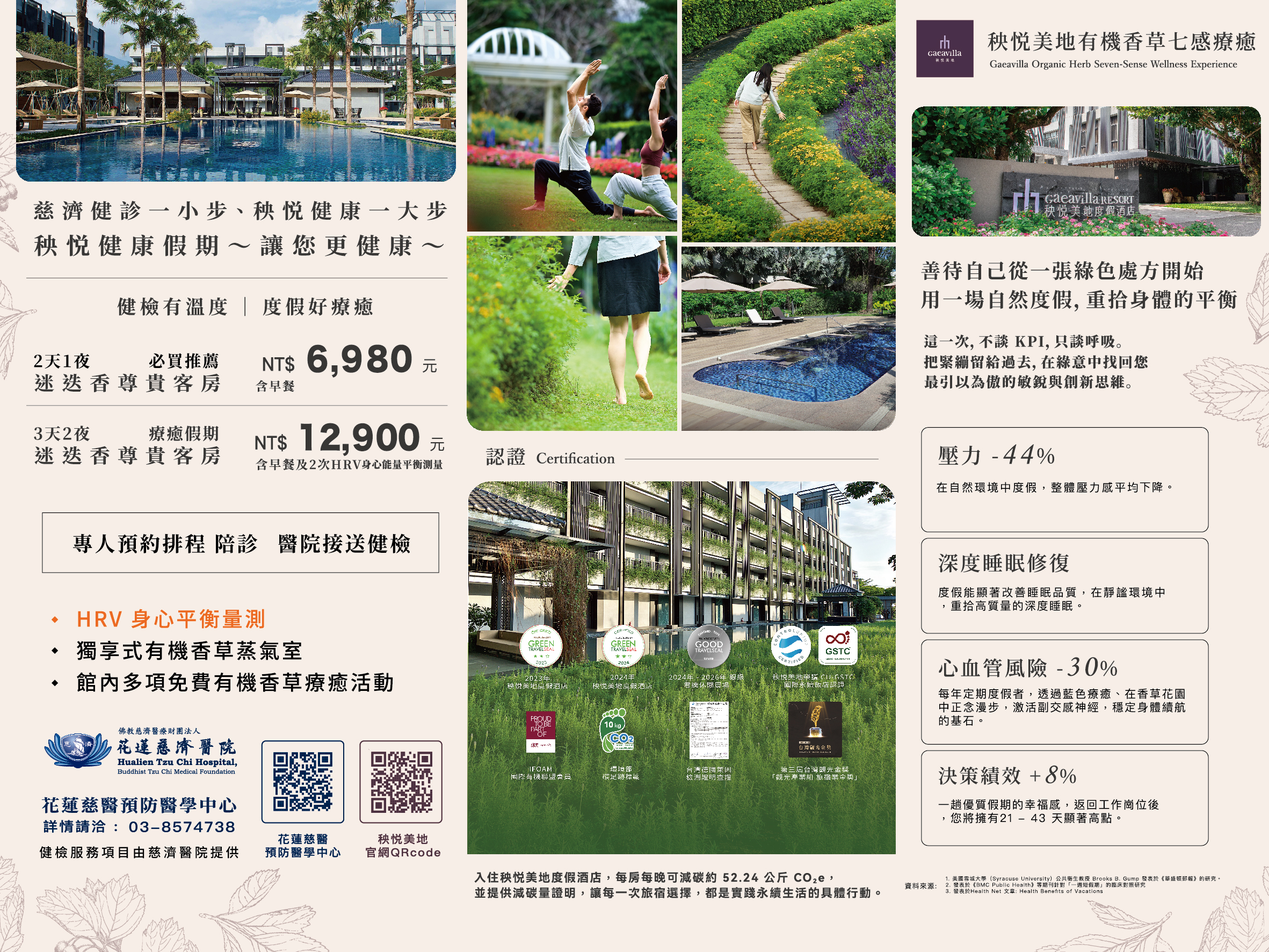
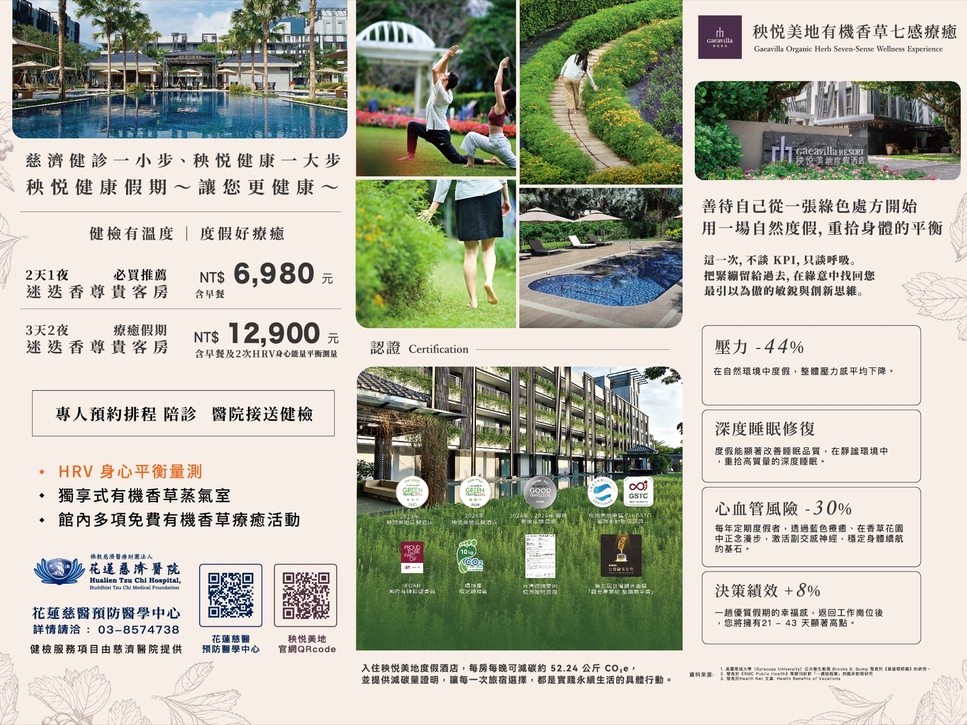
海報縮圖上線；海報依圖片比例等比例顯示
- expo-deploy/posters：21 張海報縮圖（長邊 1400／A02 寬 1800／A43 寬 2400，品質 80），原檔備份在 posters_original（不進版本控制）
- content.js 更新海報檔名清單
- 海報圖片比例與展位格子不同時，依圖片比例等比例縮小置中，不拉伸變形
- 寬海報的點選鏡頭距離再拉遠

diff --git a/expo-deploy/index.html b/expo-deploy/index.html
@@ -545,9 +545,15 @@ function posterTex(id, unit, pw) {
 function register(mesh, it) { mesh.userData.it = it; it.mesh = mesh; pick.push(mesh); items[it.id] = it; }
 // 海報圖檔：先讀 posters/ 的檔案清單，只載入真的存在的圖，避免對每個編號亂試而產生一堆 404
 const posterMesh = {};
+// 海報圖片比例和展位格子不同時（例如正方形、橫幅）：依圖片比例等比例縮小、置中，不拉伸變形
+function fitPoster(m, r) {
+  const g = m.geometry.parameters, W = g.width, H = g.height; let fw = W, fh = H;
+  if (r > W/H) fh = W/r; else fw = H*r;
+  m.scale.set(fw/W, fh/H, 1);
+}
 function setPoster(id, src) {
   const m = posterMesh[id]; if (!m) return; const im = new Image();
-  im.onload = () => { const t = new THREE.Texture(im); t.encoding = THREE.sRGBEncoding; t.anisotropy = 8; t.needsUpdate = true; m.material.map = t; m.material.needsUpdate = true; items[id].img = src; if (current === id) select(id); };
+  im.onload = () => { fitPoster(m, im.naturalWidth/im.naturalHeight); const t = new THREE.Texture(im); t.encoding = THREE.sRGBEncoding; t.anisotropy = 8; t.needsUpdate = true; m.material.map = t; m.material.needsUpdate = true; items[id].img = src; if (current === id) select(id); };
   im.src = src;
 }
 function loadPosters() {
@@ -1052,10 +1058,10 @@ function select(id) {
     flyTo([c.x + 1.5, 8.5, c.z + 9], [c.x + (wide ? 1.5 : 0), 1, c.z + (wide ? 0 : 1.2)]);
   } else {
     const m = it.mesh, n = new THREE.Vector3(0, 0, 1).applyQuaternion(m.quaternion);
-    const g = m.geometry.parameters; frame.scale.set(g.width + .14, g.height + .14, 1);
+    const g = { width: m.geometry.parameters.width*m.scale.x, height: m.geometry.parameters.height*m.scale.y }; frame.scale.set(g.width + .14, g.height + .14, 1);   // 依目前實際顯示大小（海報可能被依圖片比例縮小）
     frame.position.copy(m.position).addScaledVector(n, -.012); frame.quaternion.copy(m.quaternion); frame.visible = true;
     const tall = camera.aspect < 1, right = new THREE.Vector3(n.z, 0, -n.x), sh = wide ? 1.2 : 0;
-    const dist = Math.max(4.3, g.height*2.1, g.width*3.2) * (tall ? 1.55 : 1);
+    const dist = Math.max(4.3, g.height*2.1, g.width*3.8) * (tall ? 1.55 : 1);
     const tgt = m.position.clone().addScaledVector(right, sh); tgt.y -= wide ? .1 : (tall ? 1.3 : .9);
     const pos = m.position.clone().addScaledVector(n, dist).addScaledVector(right, sh); pos.y = tall ? 4.2 : 3.0;
     // 鏡頭若會卡進牆或拱門，就往前拉到障礙物前面

diff --git a/site/index.html b/site/index.html
@@ -544,9 +544,15 @@ function posterTex(id, unit, pw) {
 function register(mesh, it) { mesh.userData.it = it; it.mesh = mesh; pick.push(mesh); items[it.id] = it; }
 // 海報圖檔：先讀 posters/ 的檔案清單，只載入真的存在的圖，避免對每個編號亂試而產生一堆 404
 const posterMesh = {};
+// 海報圖片比例和展位格子不同時（例如正方形、橫幅）：依圖片比例等比例縮小、置中，不拉伸變形
+function fitPoster(m, r) {
+  const g = m.geometry.parameters, W = g.width, H = g.height; let fw = W, fh = H;
+  if (r > W/H) fh = W/r; else fw = H*r;
+  m.scale.set(fw/W, fh/H, 1);
+}
 function setPoster(id, src) {
   const m = posterMesh[id]; if (!m) return; const im = new Image();
-  im.onload = () => { const t = new THREE.Texture(im); t.encoding = THREE.sRGBEncoding; t.anisotropy = 8; t.needsUpdate = true; m.material.map = t; m.material.needsUpdate = true; items[id].img = src; if (current === id) select(id); };
+  im.onload = () => { fitPoster(m, im.naturalWidth/im.naturalHeight); const t = new THREE.Texture(im); t.encoding = THREE.sRGBEncoding; t.anisotropy = 8; t.needsUpdate = true; m.material.map = t; m.material.needsUpdate = true; items[id].img = src; if (current === id) select(id); };
   im.src = src;
 }
 function loadPosters() {
@@ -1051,10 +1057,10 @@ function select(id) {
     flyTo([c.x + 1.5, 8.5, c.z + 9], [c.x + (wide ? 1.5 : 0), 1, c.z + (wide ? 0 : 1.2)]);
   } else {
     const m = it.mesh, n = new THREE.Vector3(0, 0, 1).applyQuaternion(m.quaternion);
-    const g = m.geometry.parameters; frame.scale.set(g.width + .14, g.height + .14, 1);
+    const g = { width: m.geometry.parameters.width*m.scale.x, height: m.geometry.parameters.height*m.scale.y }; frame.scale.set(g.width + .14, g.height + .14, 1);   // 依目前實際顯示大小（海報可能被依圖片比例縮小）
     frame.position.copy(m.position).addScaledVector(n, -.012); frame.quaternion.copy(m.quaternion); frame.visible = true;
     const tall = camera.aspect < 1, right = new THREE.Vector3(n.z, 0, -n.x), sh = wide ? 1.2 : 0;
-    const dist = Math.max(4.3, g.height*2.1, g.width*3.2) * (tall ? 1.55 : 1);
+    const dist = Math.max(4.3, g.height*2.1, g.width*3.8) * (tall ? 1.55 : 1);
     const tgt = m.position.clone().addScaledVector(right, sh); tgt.y -= wide ? .1 : (tall ? 1.3 : .9);
     const pos = m.position.clone().addScaledVector(n, dist).addScaledVector(right, sh); pos.y = tall ? 4.2 : 3.0;
     // 鏡頭若會卡進牆或拱門，就往前拉到障礙物前面

diff --git a/expo-deploy/content.js b/expo-deploy/content.js
@@ -48,4 +48,4 @@ window.CONTENT = {
   "A41": { title: "", text: "", video: "" },   // 中醫部
   "A44": { title: "", text: "", video: "" },   // 單位待確認
 };
-window.POSTER_FILES = [];   // 由 update_poster_list.py 自動產生，請勿手改
+window.POSTER_FILES = ["A01.jpg", "A02.jpg", "A06.jpg", "A07.jpg", "A08.jpg", "A09.jpg", "A11.jpg", "A12.jpg", "A13.jpg", "A14.jpg", "A16.jpg", "A17.jpg", "A22.jpg", "A24.jpg", "A25.jpg", "A26.jpg", "A29.jpg", "A31.jpg", "A41.jpg", "A42.jpg", "A43.jpg"];   // 由 update_poster_list.py 自動產生，請勿手改
